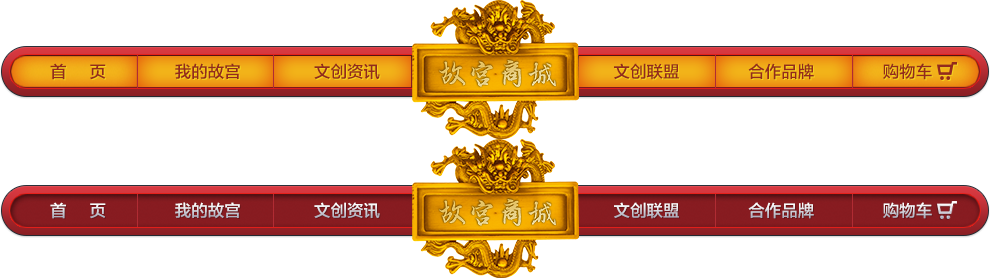
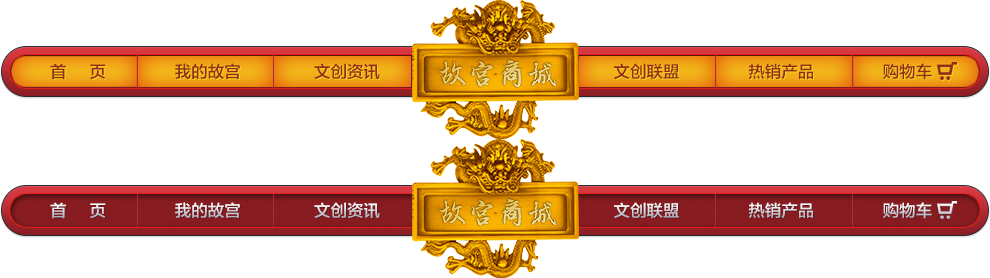
update: nav links

Changed region(s): [[0.7576, 0.7194, 0.8485, 0.8058], [0.7576, 0.2302, 0.8485, 0.2878]]

diff --git a/content/themes/gugong/header.php b/content/themes/gugong/header.php
@@ -96,7 +96,7 @@ $header_css = implode(' ', $header_css);
 				<li><a class="nav3" href="#"></a></li>
 				<li class="c_nav"></li>
 				<li><a class="nav4" href="/creative-union"></a></li>
-				<li><a class="nav5" href="/brands"></a></li>
+				<li><a class="nav5" href="/category/hot"></a></li>
 				<li><a class="nav6" href="/cart"></a></li>
 			</ul>
 		</div>
